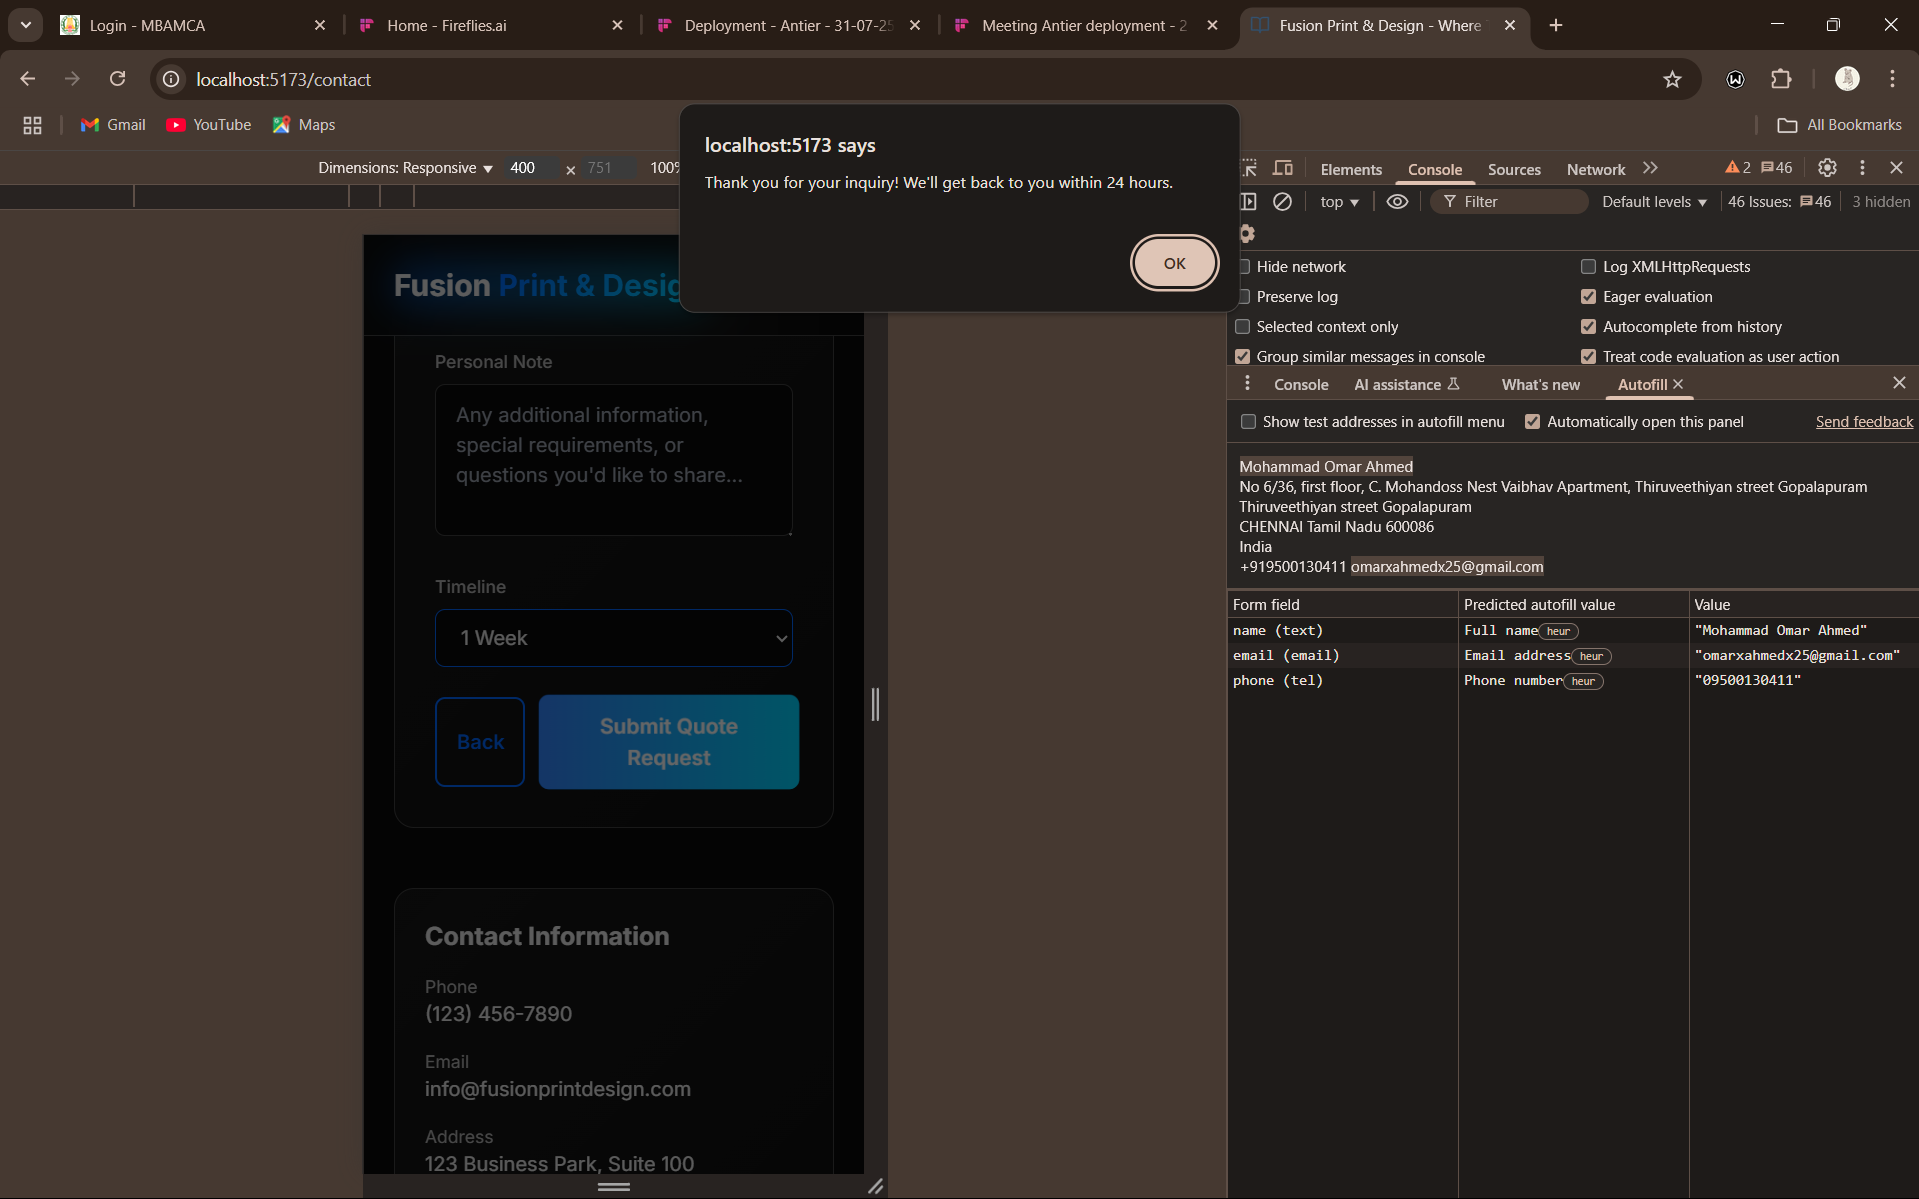
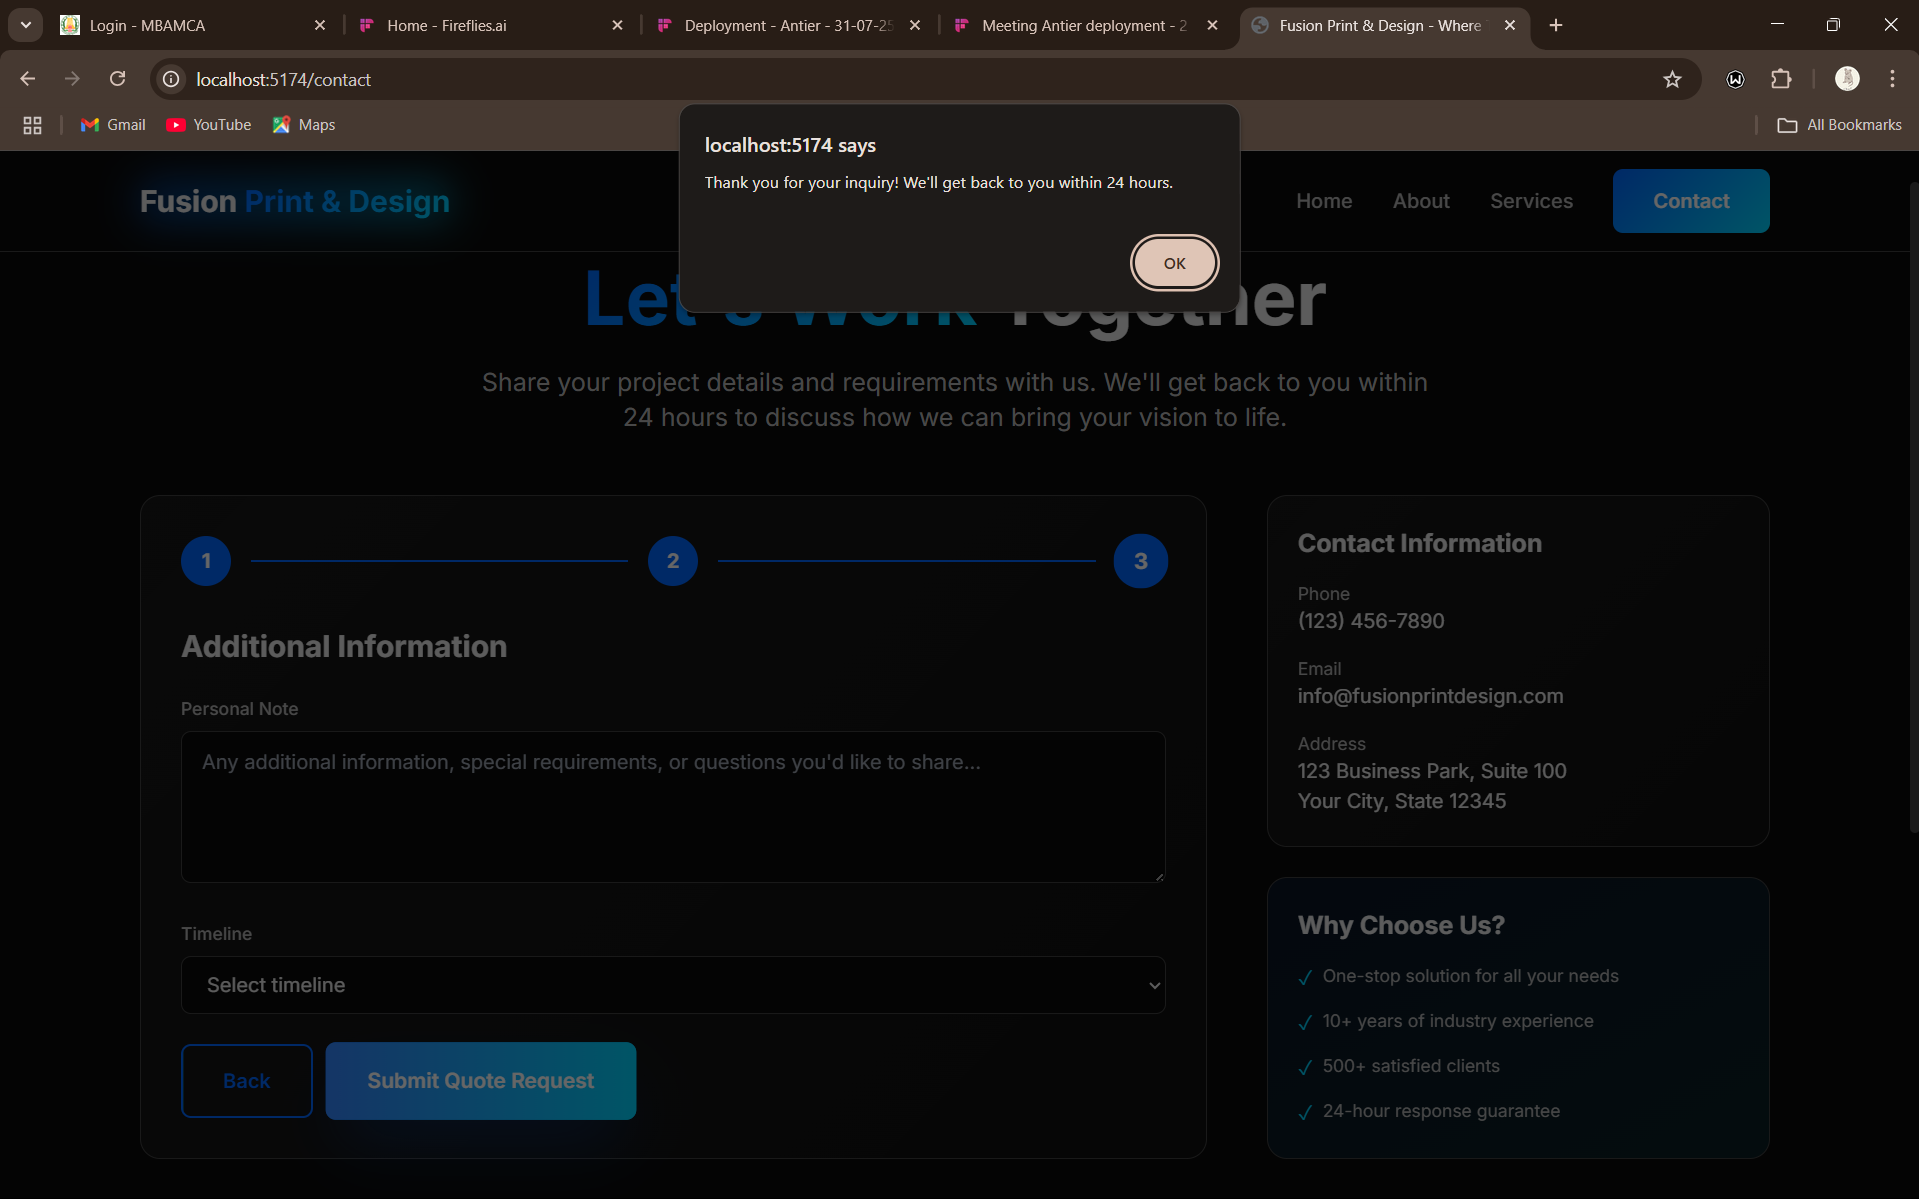
Add success overlay for quote form and fix form navigation scrolling

diff --git a/src/pages/Contact.tsx b/src/pages/Contact.tsx
@@ -17,6 +17,7 @@ interface FormData {
 
 const Contact: React.FC = () => {
   const [step, setStep] = useState(1);
+  const [showSuccess, setShowSuccess] = useState(false);
   const [formData, setFormData] = useState<FormData>({
     name: '',
     email: '',
@@ -110,7 +111,22 @@ const Contact: React.FC = () => {
   const handleSubmit = (e: React.FormEvent) => {
     e.preventDefault();
     console.log('Form submitted:', formData);
-    alert('Thank you for your inquiry! We\'ll get back to you within 24 hours.');
+    setShowSuccess(true);
+  };
+
+  const handleNewSubmission = () => {
+    setFormData({
+      name: '',
+      email: '',
+      phone: '',
+      serviceType: '',
+      projectDetails: '',
+      personalNote: '',
+      timeline: '',
+      services: []
+    });
+    setStep(1);
+    setShowSuccess(false);
   };
 
   const stepVariants = {
@@ -122,6 +138,50 @@ const Contact: React.FC = () => {
   return (
     <PageTransition>
       <section className="pt-32 pb-20">
+        {/* Success Card Overlay */}
+        {showSuccess && (
+          <div className="fixed inset-0 bg-black/80 backdrop-blur-sm flex items-center justify-center z-50 p-4">
+            <div className="bg-dark-card border border-dark-border rounded-2xl p-8 max-w-md w-full text-center animate-scale-up">
+              {/* Success Icon */}
+              <div className="relative mb-6">
+                <div className="w-24 h-24 bg-gradient-to-br from-green-400 to-green-600 rounded-full flex items-center justify-center mx-auto shadow-lg shadow-green-500/30">
+                  <svg className="w-12 h-12 text-white" fill="none" viewBox="0 0 24 24" stroke="currentColor" strokeWidth={3}>
+                    <path strokeLinecap="round" strokeLinejoin="round" d="M5 13l4 4L19 7" />
+                  </svg>
+                </div>
+                {/* Decorative dots */}
+                <div className="absolute -top-2 -left-4 w-3 h-3 bg-accent-cyan/30 rounded-full"></div>
+                <div className="absolute -bottom-1 -right-6 w-4 h-4 bg-accent-gold/30 rounded-full"></div>
+                <div className="absolute top-8 -right-8 w-2 h-2 bg-primary/30 rounded-full"></div>
+              </div>
+              
+              {/* Thank You Message */}
+              <h2 className="text-3xl font-bold text-text-primary mb-3">Thank You!</h2>
+              <p className="text-text-secondary mb-8">
+                Your quote request has been received. We will get back to you shortly.
+              </p>
+              
+              {/* Send Another Request Button */}
+              <button
+                onClick={handleNewSubmission}
+                className="bg-gradient-primary hover:shadow-lg hover:shadow-primary/30 text-white px-8 py-3 rounded-lg transition-all duration-300 font-semibold hover:scale-105"
+              >
+                Send Another Request
+              </button>
+              
+              {/* Close button */}
+              <button
+                onClick={() => setShowSuccess(false)}
+                className="absolute top-4 right-4 text-text-muted hover:text-text-primary transition-colors"
+                aria-label="Close"
+              >
+                <svg className="w-6 h-6" fill="none" viewBox="0 0 24 24" stroke="currentColor" strokeWidth={2}>
+                  <path strokeLinecap="round" strokeLinejoin="round" d="M6 18L18 6M6 6l12 12" />
+                </svg>
+              </button>
+            </div>
+          </div>
+        )}
         <motion.div
           initial="hidden"
           animate="visible"
@@ -224,7 +284,10 @@ const Contact: React.FC = () => {
                         </div>
                       </div>
                       <button
-                        onClick={() => setStep(2)}
+                        onClick={() => {
+                          setStep(2);
+                          document.querySelector('.glass-card')?.scrollIntoView({ behavior: 'smooth', block: 'start' });
+                        }}
                         className="btn-primary"
                       >
                         <span>Next: Project Details</span>
@@ -293,13 +356,19 @@ const Contact: React.FC = () => {
                       </div>
                       <div className="flex gap-4">
                         <button
-                          onClick={() => setStep(1)}
+                          onClick={() => {
+                            setStep(1);
+                            document.querySelector('.glass-card')?.scrollIntoView({ behavior: 'smooth', block: 'start' });
+                          }}
                           className="btn-secondary"
                         >
                           <span>Back</span>
                         </button>
                         <button
-                          onClick={() => setStep(3)}
+                          onClick={() => {
+                            setStep(3);
+                            document.querySelector('.glass-card')?.scrollIntoView({ behavior: 'smooth', block: 'start' });
+                          }}
                           className="btn-primary"
                         >
                           <span>Next: Additional Information</span>
@@ -353,7 +422,10 @@ const Contact: React.FC = () => {
                       </div>
                       <div className="flex gap-4">
                         <button
-                          onClick={() => setStep(2)}
+                          onClick={() => {
+                            setStep(2);
+                            document.querySelector('.glass-card')?.scrollIntoView({ behavior: 'smooth', block: 'start' });
+                          }}
                           className="btn-secondary"
                         >
                           <span>Back</span>

diff --git a/src/components/Contact.tsx b/src/components/Contact.tsx
@@ -60,19 +60,20 @@ const Contact: React.FC = () => {
     e.preventDefault();
     console.log('Form submitted:', formData);
     setShowSuccess(true);
-    // Reset form after 3 seconds
-    setTimeout(() => {
-      setFormData({
-        name: '',
-        email: '',
-        phone: '',
-        serviceType: '',
-        timeline: '',
-        budget: '',
-        description: ''
-      });
-      setShowSuccess(false);
-    }, 3000);
+    // Don't auto-hide the success message
+  };
+
+  const handleNewSubmission = () => {
+    setFormData({
+      name: '',
+      email: '',
+      phone: '',
+      serviceType: '',
+      timeline: '',
+      budget: '',
+      description: ''
+    });
+    setShowSuccess(false);
   };
 
   return (
@@ -90,14 +91,47 @@ const Contact: React.FC = () => {
         <div className="grid lg:grid-cols-3 gap-8 sm:gap-10 lg:gap-12">
           <div className="lg:col-span-2">
             <form onSubmit={handleSubmit} className="bg-white rounded-lg shadow-lg p-4 sm:p-6 lg:p-8 relative">
-              {/* Success Toast Message */}
+              {/* Success Card Overlay */}
               {showSuccess && (
-                <div className="fixed top-20 left-1/2 transform -translate-x-1/2 z-50">
-                  <div className="bg-green-500 text-white px-6 py-3 rounded-lg shadow-lg flex items-center gap-3 animate-slide-down">
-                    <svg className="w-5 h-5" fill="none" viewBox="0 0 24 24" stroke="currentColor" strokeWidth={2.5}>
-                      <path strokeLinecap="round" strokeLinejoin="round" d="M5 13l4 4L19 7" />
-                    </svg>
-                    <span className="font-medium">Successfully Registered! We'll contact you within 24 hours.</span>
+                <div className="fixed inset-0 bg-black/80 backdrop-blur-sm flex items-center justify-center z-50 p-4">
+                  <div className="bg-dark-card border border-dark-border rounded-2xl p-8 max-w-md w-full text-center animate-scale-up">
+                    {/* Success Icon */}
+                    <div className="relative mb-6">
+                      <div className="w-24 h-24 bg-gradient-to-br from-green-400 to-green-600 rounded-full flex items-center justify-center mx-auto shadow-lg shadow-green-500/30">
+                        <svg className="w-12 h-12 text-white" fill="none" viewBox="0 0 24 24" stroke="currentColor" strokeWidth={3}>
+                          <path strokeLinecap="round" strokeLinejoin="round" d="M5 13l4 4L19 7" />
+                        </svg>
+                      </div>
+                      {/* Decorative dots */}
+                      <div className="absolute -top-2 -left-4 w-3 h-3 bg-accent-cyan/30 rounded-full"></div>
+                      <div className="absolute -bottom-1 -right-6 w-4 h-4 bg-accent-gold/30 rounded-full"></div>
+                      <div className="absolute top-8 -right-8 w-2 h-2 bg-primary/30 rounded-full"></div>
+                    </div>
+                    
+                    {/* Thank You Message */}
+                    <h2 className="text-3xl font-bold text-text-primary mb-3">Thank You!</h2>
+                    <p className="text-text-secondary mb-8">
+                      Your quote request has been received. We will get back to you shortly.
+                    </p>
+                    
+                    {/* Send Another Request Button */}
+                    <button
+                      onClick={handleNewSubmission}
+                      className="bg-gradient-primary hover:shadow-lg hover:shadow-primary/30 text-white px-8 py-3 rounded-lg transition-all duration-300 font-semibold hover:scale-105"
+                    >
+                      Send Another Request
+                    </button>
+                    
+                    {/* Close button */}
+                    <button
+                      onClick={() => setShowSuccess(false)}
+                      className="absolute top-4 right-4 text-text-muted hover:text-text-primary transition-colors"
+                      aria-label="Close"
+                    >
+                      <svg className="w-6 h-6" fill="none" viewBox="0 0 24 24" stroke="currentColor" strokeWidth={2}>
+                        <path strokeLinecap="round" strokeLinejoin="round" d="M6 18L18 6M6 6l12 12" />
+                      </svg>
+                    </button>
                   </div>
                 </div>
               )}

diff --git a/src/index.css b/src/index.css
@@ -2,19 +2,19 @@
 @tailwind components;
 @tailwind utilities;
 
-@keyframes slide-down {
+@keyframes scale-up {
   0% {
-    transform: translateX(-50%) translateY(-100%);
+    transform: scale(0.8);
     opacity: 0;
   }
   100% {
-    transform: translateX(-50%) translateY(0);
+    transform: scale(1);
     opacity: 1;
   }
 }
 
-.animate-slide-down {
-  animation: slide-down 0.3s ease-out;
+.animate-scale-up {
+  animation: scale-up 0.3s ease-out;
 }
 
 @layer base {
